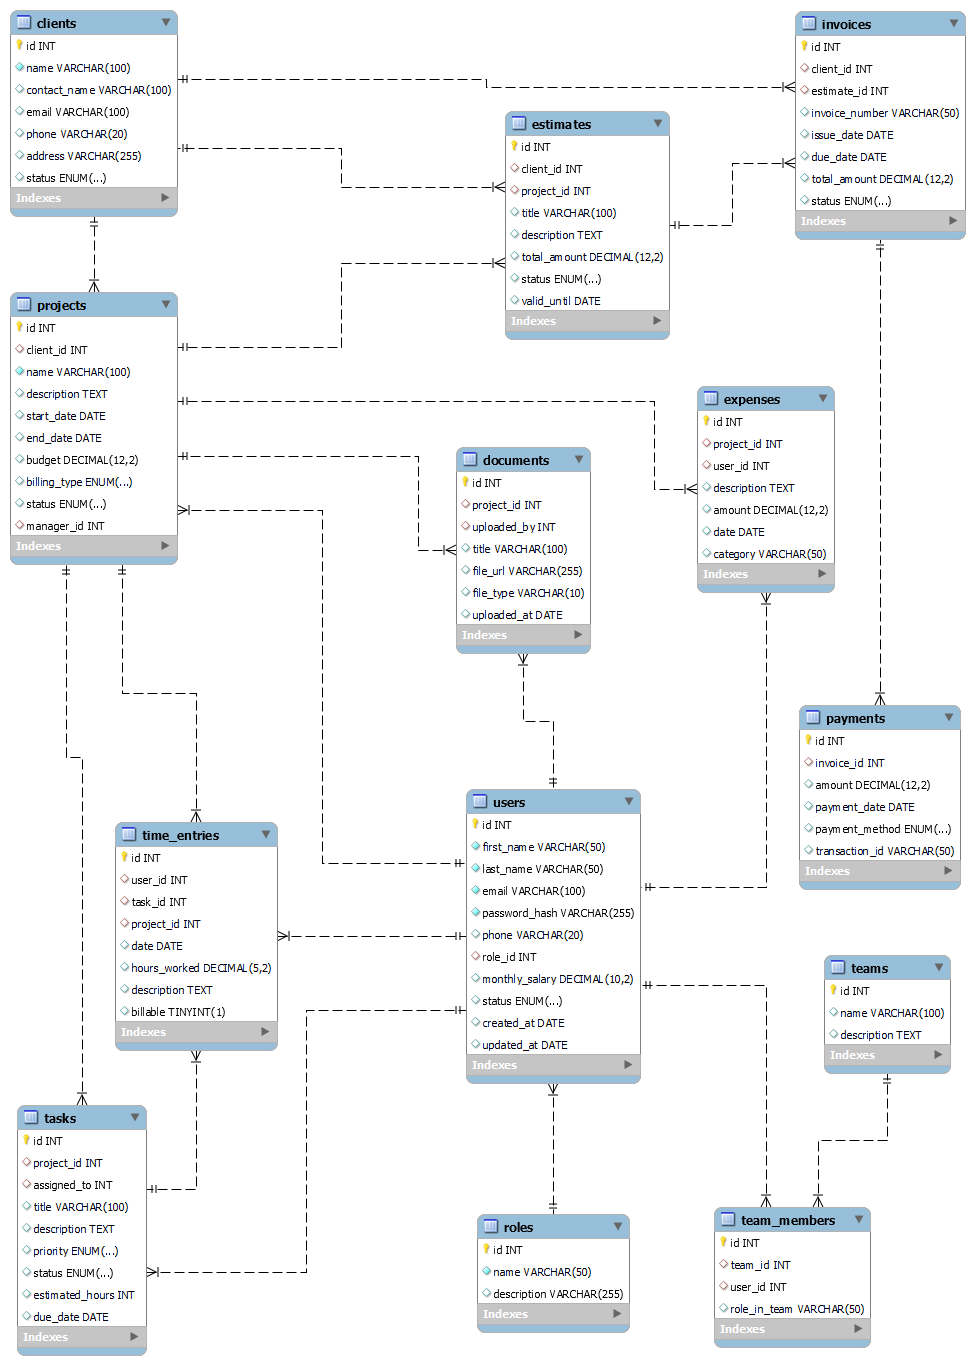
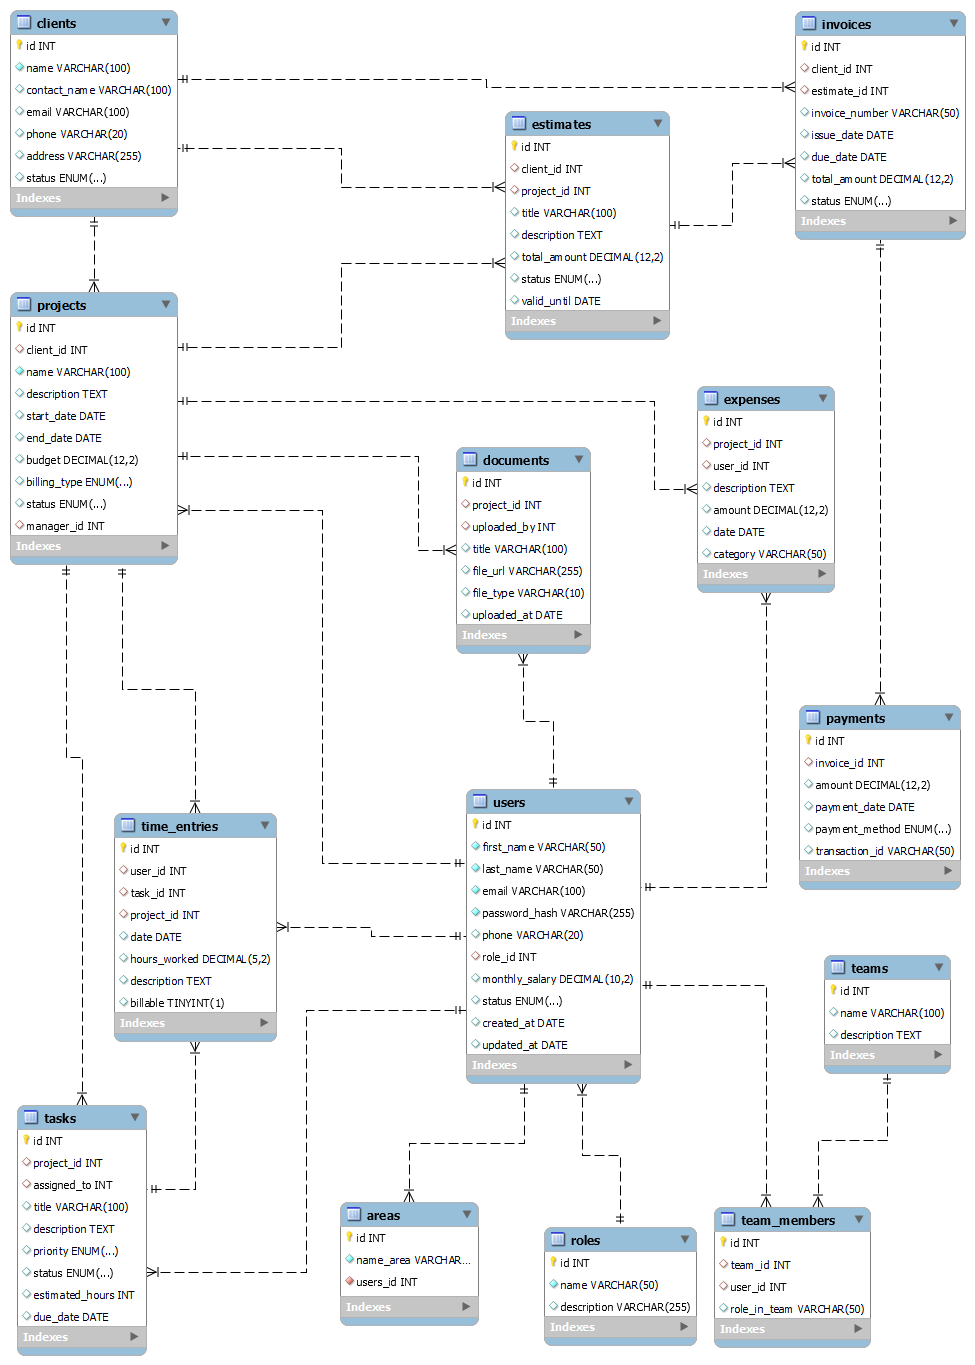
chore: add new areas data to database

Changed region(s): [[0.3385, 0.8615, 0.7385, 0.9846], [0.0923, 0.5846, 0.3077, 0.8]]

diff --git a/src/entities/UserEntity.js b/src/entities/UserEntity.js
@@ -7,6 +7,7 @@ class UserEntity {
         password_hast,
         phone,
         role_id,
+        area_id,
         monthly_salary,
         status,
         created_at = new Date().toISOString(),
@@ -19,6 +20,7 @@ class UserEntity {
         this.password_hast = password_hast;
         this.phone = phone;
         this.role_id = role_id;
+        this.area_id = area_id;
         this.monthly_salary = monthly_salary;
         this.status = status;
         this.created_at = created_at;

diff --git a/README.md b/README.md
@@ -97,7 +97,7 @@ Las responsabilidades y las tareas realizadas en el proyecto abarcan todo el cic
 - **Creacioón de diagramas:** Modelado de la base de datos del sistema mediante un **Diagrama de Entidad-Relación (DER)** en SQL, incluyendo todas las entidades, atributos y relaciones principales. Este diagrama sirvió para generar las tablas y claves foráneas en MySQL, definiendo la estructura relacional de la base de datos. Posteriormente, se planifica adaptar este modelo a **MongoDB**, utilizando referencias o documentos embebidos según convenga para la persistencia en formato JSON.
 - **Creación de JsonDatabase:** Desarrollo de un sistema de base de datos basado en archivos JSON, `JsonDatabase.js`, que maneja la carga y guardado de datos de forma asíncrona en un archivo `db.json`. Este módulo también gestiona las colecciones dentro del archivo JSON.  
 - **Configuración de la Base de Datos:** Configuración de la instancia de `JsonDatabase` para ser utilizada en toda la aplicación a través de `db.js`.  
-- **Población de Datos Iniciales:** Creación y población del archivo `db.json` con datos de ejemplo para diversas colecciones como `users`, `roles`, `clients`, `projects`, `tasks`, `time_entries`, `estimates`, `invoices`, `payments`, `expenses`, `teams`, `team_members` y `documents`, estableciendo una estructura de datos para la aplicación.  
+- **Población de Datos Iniciales:** Creación y población del archivo `db.json` con datos de ejemplo para diversas colecciones como `users`, `areas`, `roles`, `clients`, `projects`, `tasks`, `time_entries`, `estimates`, `invoices`, `payments`, `expenses`, `teams`, `team_members` y `documents`, estableciendo una estructura de datos para la aplicación.  
 - **Generación de IDs Únicos (IdGenerator):** Creación de la `IdGenerator` para generar IDs secuenciales y únicos para los nuevos elementos en cada colección de la base de datos.
 
 ### Implementación de Entidades Específicas del Dominio
@@ -205,66 +205,70 @@ El sistema ha sido diseñado como una API RESTful que gestiona proyectos, client
 #### 3.4.1. Entidades y su contexto:
 
 1. **users (Usuarios)**  
-   **Descripción de la Entidad:** Esta colección almacena información detallada sobre el personal de ClickWave. Incluye atributos como id, first_name, last_name, email, phone, password_hash, role_id (para vincular con su rol en la empresa), monthly_salary, status, y created_at/updated_at para control temporal.  
+   **Descripción de la Entidad:** Esta colección almacena información detallada sobre el personal de ClickWave. Incluye atributos como id, first_name, last_name, email, phone, password_hash, area_id (para vincular con un área de la empresa), role_id (para vincular con su rol en la empresa), monthly_salary, status, y created_at/updated_at para control temporal.  
    **Relación con el Sistema:** El UserEntity define la estructura de un usuario. El UserModel extiende BaseModel para manejar las operaciones CRUD (Crear, Leer, Actualizar, Eliminar) específicas para usuarios, incluyendo la generación de IDs y la actualización automática de created_at y updated_at. El UserController extiende BaseController para exponer estos servicios a través de la API.  
    **Relación con ClickWave:** Es fundamental para la "Formalización de Roles" y la "Evaluación del Desempeño del Equipo". ClickWave actualmente sufre de "procesos informales y roles poco definidos". La entidad users permite asignar un role_id específico a cada empleado (por ejemplo, "Administrador", "Gerente de Proyecto", "Consultor"), lo que es crucial para establecer responsabilidades claras. El registro de usuarios es la base para el seguimiento del tiempo y la evaluación objetiva del rendimiento del equipo. La inclusión de monthly_salary y status soporta los objetivos financieros de "Optimizar Costos y Eficiencia Operativa".
 
-2. **roles (Roles)**  
+2. **areas (Áreas)**
+   **Descripción de la Entidad:** Contiene los diferentes áreas a la que puede pertenecer un usuario dentro de ClickWave, con atributos como id y name_area Relación con el Sistema: El AreaEntity define la forma de un área. El AreaModel extiende BaseModel y el AreaController extiende BaseController, proporcionando la funcionalidad CRUD para gestionar las áreas.
+   **Relación con ClickWave:** Directamente vinculado con la necesidad de "formalización de áreas". Las áreas como “SEO/SEM”, “Social Media”, “Contenidos” y “Administración”."Administrador" reflejan la estructura funcional de la empresa y su evolución organizativa. 
+
+3. **roles (Roles)**  
    **Descripción de la Entidad:** Contiene los diferentes roles que pueden desempeñar los usuarios dentro de ClickWave, con atributos como id, name y description.  
    **Relación con el Sistema:** El RoleEntity define la forma de un rol. El RoleModel extiende BaseModel y el RoleController extiende BaseController, proporcionando la funcionalidad CRUD para gestionar los roles.  
    **Relación con ClickWave:** Directamente vinculado con la necesidad de "formalización de roles". Los roles como "Administrador", "Gerente de Proyecto" y "Consultor" reflejan la estructura funcional de la empresa y su evolución organizativa. Al definir roles claros, se aborda la "ausencia de roles claramente definidos" en los procesos actuales de ClickWave.
 
-3. **clients (Clientes)**  
+4. **clients (Clientes)**  
    **Descripción de la Entidad:** Almacena la información de las empresas y contactos con los que trabaja ClickWave. Los atributos incluyen id, name (nombre de la empresa), contact_name (nombre de la persona de contacto), email, phone, address y status.  
    **Relación con el Sistema:** El ClientEntity modela la estructura de los datos del cliente. El ClientModel gestiona la persistencia, y el ClientController maneja las peticiones de la API. Un middleware (validateClientInput) asegura que los datos mínimos para un cliente sean proporcionados antes de ser procesados.  
    **Relación con ClickWave:** Esencial para el "Mercado Objetivo" de ClickWave (PyMEs) y para su misión de "acompañar a cada cliente con un servicio cercano y transparente". La gestión centralizada de clientes es la base para los "Procesos de Gestión de Proyectos y Facturación". Una base de datos de clientes bien organizada ayuda a reducir los "conflictos con clientes" que surgen de una facturación no justificada, promoviendo la "transparencia".
 
-4. **projects (Proyectos)**  
+5. **projects (Proyectos)**  
    **Descripción de la Entidad:** Representa los proyectos que ClickWave realiza para sus clientes. Contiene id, client_id (vinculado a un cliente), name, description, start_date, end_date, budget, billing_type (tipo de facturación, por ejemplo, "fixed" o "hourly"), status y manager_id (vinculado a un usuario).  
    **Relación con el Sistema:** Esta entidad establecerá relaciones clave con clients y users.  
    **Relación con ClickWave:** Es la entidad central para el "Proceso de Gestión de Proyectos" y una "necesidad de gestión (software)" clave. Permite a ClickWave "planificar, ejecutar y monitorear proyectos, incluyendo hitos, plazos y recursos". Los atributos budget y billing_type son críticos para superar la "falta de un registro detallado de las horas reales trabajadas" y el análisis de rentabilidad. El manager_id facilita la asignación de responsables y la "Formalización de Roles", que es una propuesta de mejora.
 
-5. **tasks (Tareas)**  
+6. **tasks (Tareas)**  
    **Descripción de la Entidad:** Desglosa los proyectos en unidades de trabajo más pequeñas. Incluye id, project_id (vinculado a un proyecto), assigned_to (ID del usuario asignado), title, description, priority, status, estimated_hours y due_date.  
    **Relación con el Sistema:** Relaciona projects con users.  
    **Relación con ClickWave:** Es un componente vital para la "Adopción de Metodología Ágil" y la "Implementación de un Sistema de Gestión de Proyectos y Tiempo". Permite la "asignación de tareas específicas" y el "registro de horas y tareas" por consultores, abordando la "asignación de tareas informal" y la "falta de un registro detallado de las horas trabajadas". Facilita la "trazabilidad y medición", esencial para el seguimiento del progreso.
 
-6. **time_entries (Registros de Tiempo)**  
+7. **time_entries (Registros de Tiempo)**  
    **Descripción de la Entidad:** Registra el tiempo real invertido por los usuarios en tareas específicas de los proyectos. Atributos: id, user_id, task_id, project_id, date, hours_worked, description y billable (indicando si esas horas son facturables al cliente).  
    **Relación con el Sistema:** Es una entidad de relación directa entre users, tasks y projects.  
    **Relación con ClickWave:** Esta es una de las entidades más críticas para solucionar los "puntos débiles" de ClickWave. Resuelve directamente la "falta de un registro detallado de las horas reales trabajadas" y los "conflictos con clientes" por la facturación. Será la "fuente de datos para la contabilidad y gestión". El campo billable es crucial para "Aumentar la Rentabilidad por Proyecto y Servicio" y "Optimizar Costos y Eficiencia Operativa", al permitir una facturación "transparente y justificada" basada en el trabajo real.
 
-7. **estimates (Presupuestos)**  
+8. **estimates (Presupuestos)**  
    **Descripción de la Entidad:** Almacena los presupuestos o propuestas de servicio ofrecidas a los clientes. Contiene id, client_id, project_id, title, description, total_amount, status y valid_until.  
    **Relación con el Sistema:** Relaciona clients con projects.  
    **Relación con ClickWave:** Forma parte del "Proceso de Facturación y Control Financiero". Ayuda a formalizar la comunicación financiera con los clientes antes de la facturación, lo que es vital para una "facturación transparente y justificada" y reducir futuras disputas.
 
-8. **invoices (Facturas)**  
+9. **invoices (Facturas)**  
    **Descripción de la Entidad:** Representa las facturas emitidas por los servicios prestados. Incluye id, client_id, estimate_id (vinculado al presupuesto original), invoice_number, issue_date, due_date, total_amount y status.  
    **Relación con el Sistema:** Vincula clients con estimates.  
    **Relación con ClickWave:** Es una salida clave del "Proceso de Facturación y Control Financiero". La digitalización y centralización de las facturas contribuye a la "integridad de la información y su oportunidad" y a "Mejorar el Flujo de Caja y la Cobranza" al tener un registro claro de lo que se ha facturado y su estado.
 
-9. **payments (Pagos)**  
+10. **payments (Pagos)**  
    **Descripción de la Entidad:** Registra los pagos recibidos de los clientes por las facturas emitidas. Atributos: id, invoice_id (vinculado a una factura), amount, payment_date, payment_method y transaction_id.  
    **Relación con el Sistema:** Relaciona directamente con invoices.  
    **Relación con ClickWave:** Fundamental para el "Proceso de Facturación y Control Financiero" y el objetivo de "Mejorar el Flujo de Caja y la Cobranza". Permite un seguimiento preciso de los ingresos y la conciliación de cuentas, lo cual es vital para la salud financiera y la toma de decisiones.
 
-10. **expenses (Gastos)**  
+11. **expenses (Gastos)**  
     **Descripción de la Entidad:** Almacena los gastos incurridos por la empresa, potencialmente asociados a proyectos o usuarios. Incluye id, project_id, user_id, description, amount, date y category.  
     **Relación con el Sistema:** Relaciona projects con users.  
     **Relación con ClickWave:** Esencial para "Optimizar Costos y Eficiencia Operativa" y para el "análisis ágil de la rentabilidad por servicio". Un registro detallado de gastos permite a ClickWave identificar ineficiencias y asignar recursos de manera más efectiva, apoyando la toma de decisiones basada en datos válidos.
 
-11. **teams (Equipos)**  
+12. **teams (Equipos)**  
     **Descripción de la Entidad:** Define los diferentes equipos de trabajo dentro de ClickWave. Atributos: id, name y description.  
     **Relación con el Sistema:** Relaciona con team_members.  
     **Relación con ClickWave:** Contribuye a la "Formalización de Roles" y a la organización de los "equipos de consultores". Permite estructurar la empresa en áreas (como "Backend Team", "Frontend Team", "QA Team"), facilitando una "mayor profesionalización" y la "colaboración".
 
-12. **team_members (Miembros del Equipo)**  
+13. **team_members (Miembros del Equipo)**  
     **Descripción de la Entidad:** Enlaza a los usuarios con los equipos a los que pertenecen. Incluye id, team_id y user_id, además del role_in_team (el rol específico de ese usuario dentro de ese equipo).  
     **Relación con el Sistema:** Es una tabla de relación entre teams y users.  
     **Relación con ClickWave:** Complementa la "Formalización de Roles" al definir la composición y el papel de cada individuo dentro de los equipos. Esto es crucial para la "organización interna" de ClickWave que actualmente "conserva procesos informales y roles poco definidos".
 
-13. **documents (Documentos)**  
+14. **documents (Documentos)**  
     **Descripción de la Entidad:** Permite la gestión de documentos relacionados con proyectos. Atributos: id, project_id, uploaded_by (el usuario que subió el documento), title, file_url, file_type y uploaded_at.  
     **Relación con el Sistema:** Relaciona projects con users.  
     **Relación con ClickWave:** Aborda la necesidad de "Documentación Propuesta" y la "digitalización y centralización de esta información en un sistema". La capacidad de adjuntar y organizar documentos (contratos, requisitos, wireframes) mejora la "excelencia en la gestión de proyectos" y la integridad de la información, que son aspectos clave para la maduración y expansión de ClickWave.
